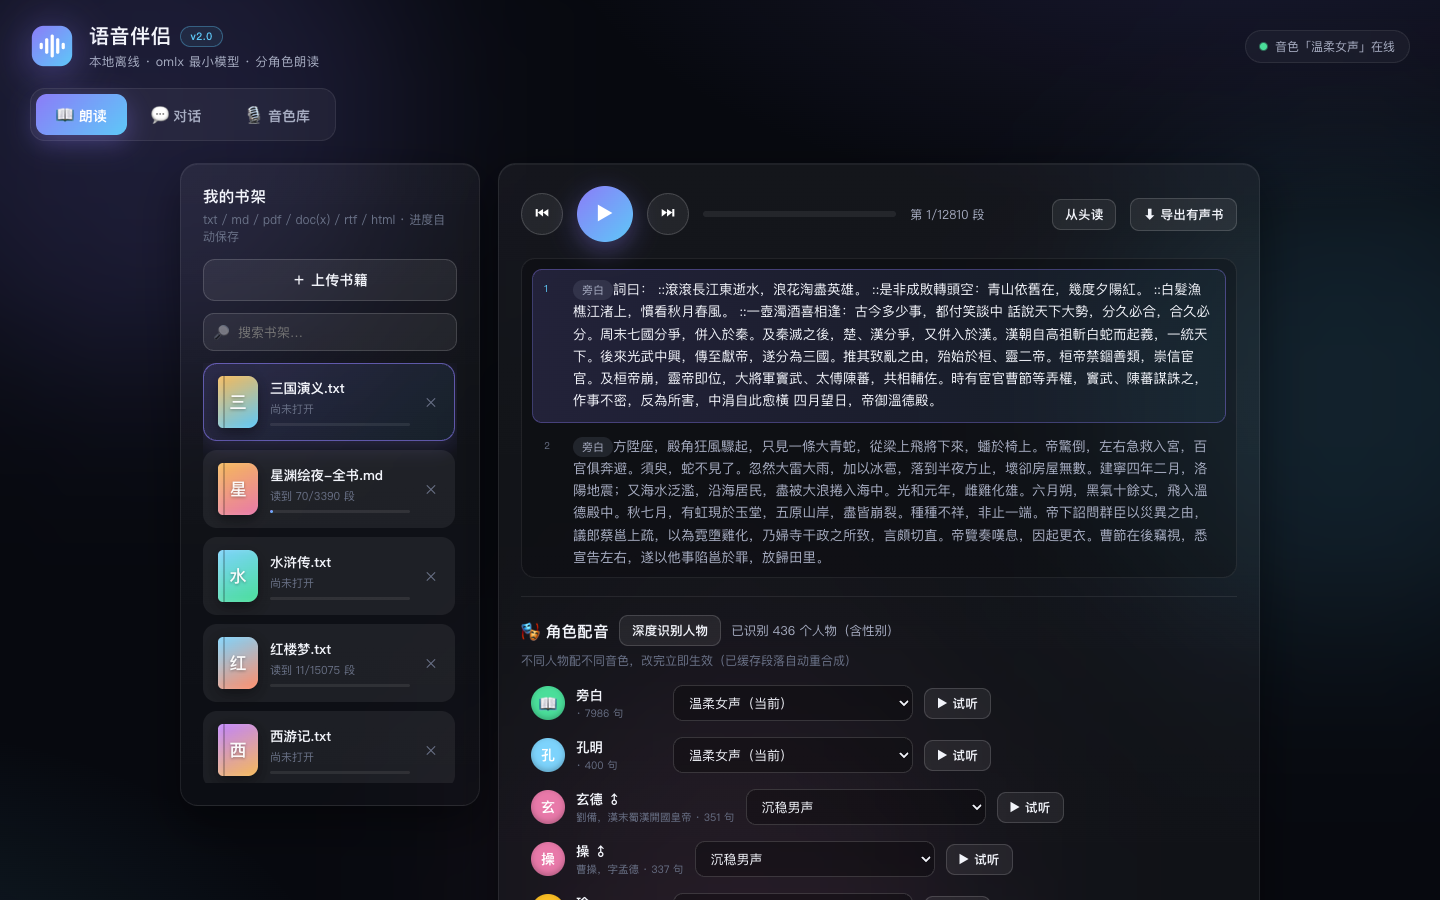
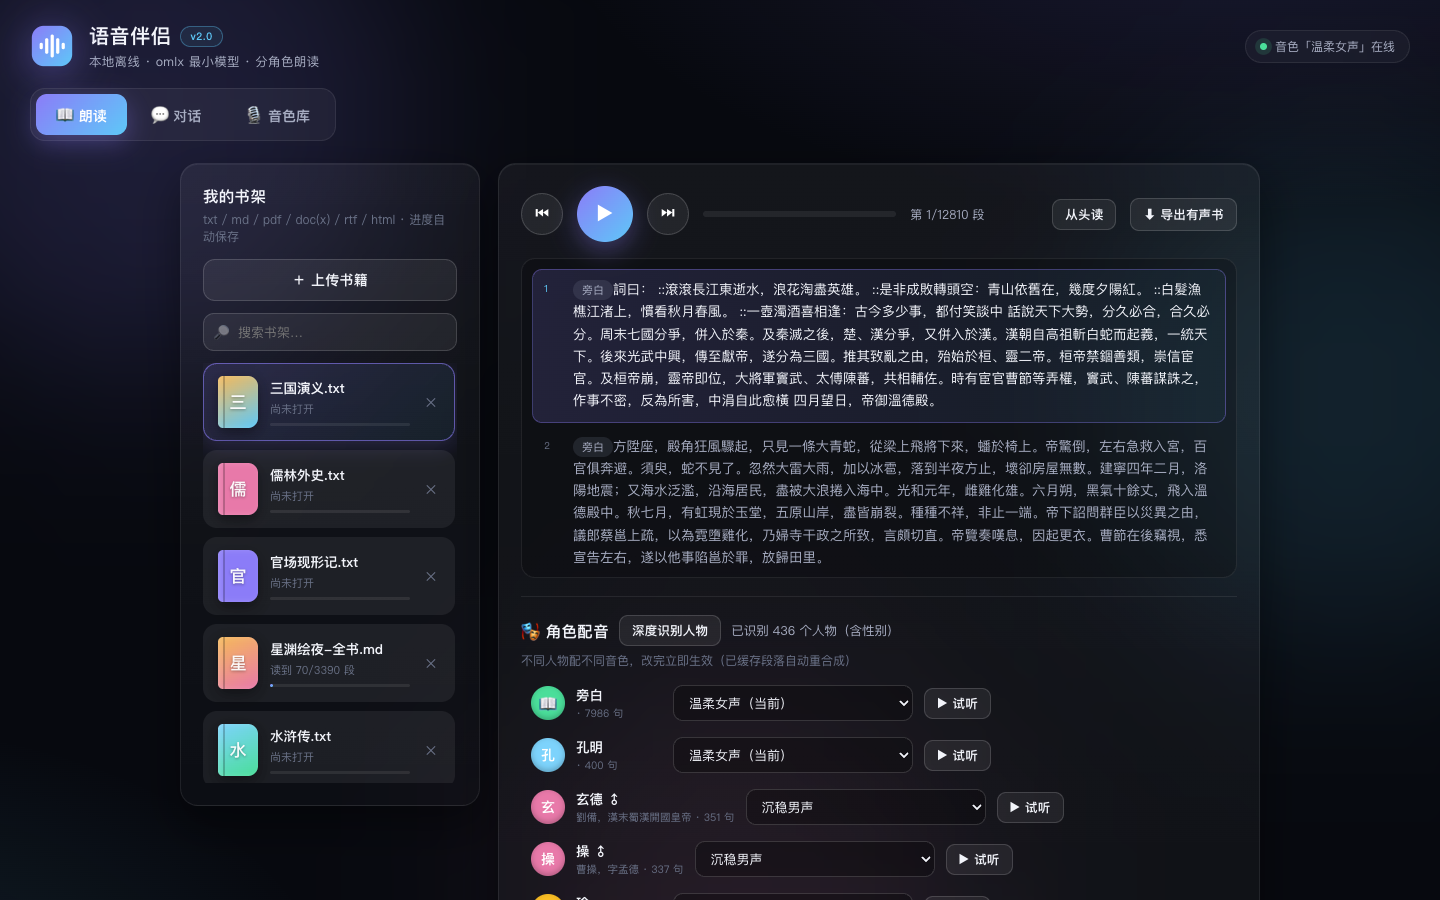
feat(books): 特色公版书目 — 晚清讽刺与志怪（新增 158 万字）
- fetch_classics 改为页名列表驱动，支持回/卷/数字等非统一结构，
  命令行可用简体简写（如 聊斋）
- 新增书目：老残游记(11万)/官场现形记(65万)/儒林外史(33万)/聊斋志异(49万)，
  全部来自维基文库公有领域文本
- novel_engine：SAY_VERBS 增 說/答云；_GENERIC 扩容（曰/問/答/忙/連/
  自言/異史氏/女/生 等文言语义误抓）；ACTIONS 增 忙/連/連聲
- 9 本书回归验证：头部角色全部正确，官场现形记'忙/連'噪声清除
- 4 部新书完成 LLM 人物识别（老残连'姓鐵名英'都考据出来了）
- README 特色书目表；更新 read.png（书架 9 本）

Changed region(s): [[0.125, 0.5911, 0.25, 0.7778], [0.125, 0.4978, 0.25, 0.56], [0.125, 0.8089, 0.2188, 0.8711]]

diff --git a/tools/fetch_classics.py b/tools/fetch_classics.py
@@ -28,12 +28,22 @@ CACHE_DIR = os.path.join(HERE, ".classics_cache")
 API = "https://zh.wikisource.org/w/api.php"
 UA = "voice-companion classics fetcher (personal local audiobook shelf)"
 
-# 维基文库书名 → (输出文件名, 回数, 回目页名格式)
+def chapters(fmt, n):
+    return [fmt.format(i) for i in range(1, n + 1)]
+
+
+# 维基文库书名 → (输出文件名, 章节页名列表)
 BOOKS = {
-    "紅樓夢": ("红楼梦.txt", 120, "第{:03d}回"),
-    "三國演義": ("三国演义.txt", 120, "第{:03d}回"),
-    "西遊記": ("西游记.txt", 100, "第{:03d}回"),
-    "水滸傳 (120回本)": ("水浒传.txt", 120, "第{:03d}回"),
+    # 四大名著
+    "紅樓夢": ("红楼梦.txt", chapters("第{:03d}回", 120)),
+    "三國演義": ("三国演义.txt", chapters("第{:03d}回", 120)),
+    "西遊記": ("西游记.txt", chapters("第{:03d}回", 100)),
+    "水滸傳 (120回本)": ("水浒传.txt", chapters("第{:03d}回", 120)),
+    # 特色公版：晚清讽刺 / 志怪
+    "老殘遊記": ("老残游记.txt", chapters("第{:02d}回", 20)),
+    "官場現形記": ("官场现形记.txt", chapters("{:02d}", 60)),
+    "儒林外史": ("儒林外史.txt", chapters("第{:02d}回", 56)),
+    "聊齋志異": ("聊斋志异.txt", chapters("第{:02d}卷", 12)),
 }
 
 _TMPL = re.compile(r"\{\{[^{}]*\}\}")
@@ -101,15 +111,15 @@ def fetch(url):
     raise RuntimeError("unreachable")
 
 
-def fetch_book(ws_name, fmt, out_path):
+def fetch_book(ws_name, pages, out_path):
     cache = os.path.join(CACHE_DIR, ws_name)
     os.makedirs(cache, exist_ok=True)
-    total = fmt[1]
-    for n in range(1, total + 1):
+    total = len(pages)
+    for n, ch in enumerate(pages, 1):
         cf = os.path.join(cache, f"{n:04d}.txt")
         if os.path.exists(cf):
             continue
-        page = f"{ws_name}/{fmt[2].format(n)}"
+        page = f"{ws_name}/{ch}"
         q = urllib.parse.urlencode(
             {"action": "parse", "format": "json", "prop": "wikitext", "page": page})
         d = json.loads(fetch(f"{API}?{q}").decode("utf-8"))
@@ -120,7 +130,7 @@ def fetch_book(ws_name, fmt, out_path):
             raise RuntimeError(f"{page}: 清洗后为空")
         with open(cf, "w", encoding="utf-8") as f:
             f.write(text)
-        done = sum(1 for _ in range(1, n + 1) if os.path.exists(os.path.join(cache, f"{_:04d}.txt")))
+        done = sum(1 for i in range(1, n + 1) if os.path.exists(os.path.join(cache, f"{i:04d}.txt")))
         print(f"  {page} ✓ ({len(text)} 字, {done}/{total})", flush=True)
         time.sleep(1.0)
     chapters = []
@@ -136,15 +146,15 @@ def fetch_book(ws_name, fmt, out_path):
 def main():
     os.makedirs(OUT_DIR, exist_ok=True)
     only = set(sys.argv[1:])
-    for ws_name, fmt in BOOKS.items():
-        if only and ws_name not in only:
+    for ws_name, (fname, pages) in BOOKS.items():
+        if only and not any(a in ws_name or a in fname for a in only):
             continue
-        out_path = os.path.join(OUT_DIR, fmt[0])
+        out_path = os.path.join(OUT_DIR, fname)
         if os.path.exists(out_path):
             print(f"跳过 {ws_name}（已存在）")
             continue
         print(f"《{ws_name}》下载中…", flush=True)
-        fetch_book(ws_name, fmt, out_path)
+        fetch_book(ws_name, pages, out_path)
 
 
 if __name__ == "__main__":

diff --git a/README.md b/README.md
@@ -52,11 +52,21 @@
 
 ### 内置公版经典书架
 
-仓库自带脚本，可从[维基文库](https://zh.wikisource.org)一键下载**公有领域**经典全文（《红楼梦》《三国演义》《西游记》《水浒传》），自动清洗为纯文本并放入书架：
+仓库自带脚本，可从[维基文库](https://zh.wikisource.org)一键下载**公有领域**经典全文并放入书架（全部已进公有领域，可自由使用）：
+
+**四大名著**：《红楼梦》《三国演义》《西游记》《水浒传》（120回本）
+
+**特色书目**：
+| 书 | 特色 |
+|---|---|
+| 《老残游记》 | 晚清旅行见闻，"白妞说书"一段对白如临其境 |
+| 《官场现形记》 | 60 回官场讽刺群像，对话密集，角色朗读效果拉满 |
+| 《儒林外史》 | 范进中举出处，士林群像讽刺 |
+| 《聊斋志异》 | 12 卷志怪短篇，一故事一世界 |
 
 ```bash
-python3 tools/fetch_classics.py            # 抓全部（每本约 2-3 分钟，断点续抓）
-python3 tools/fetch_classics.py 紅樓夢      # 只抓某本
+python3 tools/fetch_classics.py            # 抓全部（断点续抓，遇限速自动退避）
+python3 tools/fetch_classics.py 聊斋       # 只抓某本（简繁书名均可）
 ```
 
 打开书即自动按「旁白/角色/台词」切分（支持"曰/問/謂"等文言说话动词），点**深度识别人物**后由本地 LLM 识别每个角色的性别与身份并自动配音。
